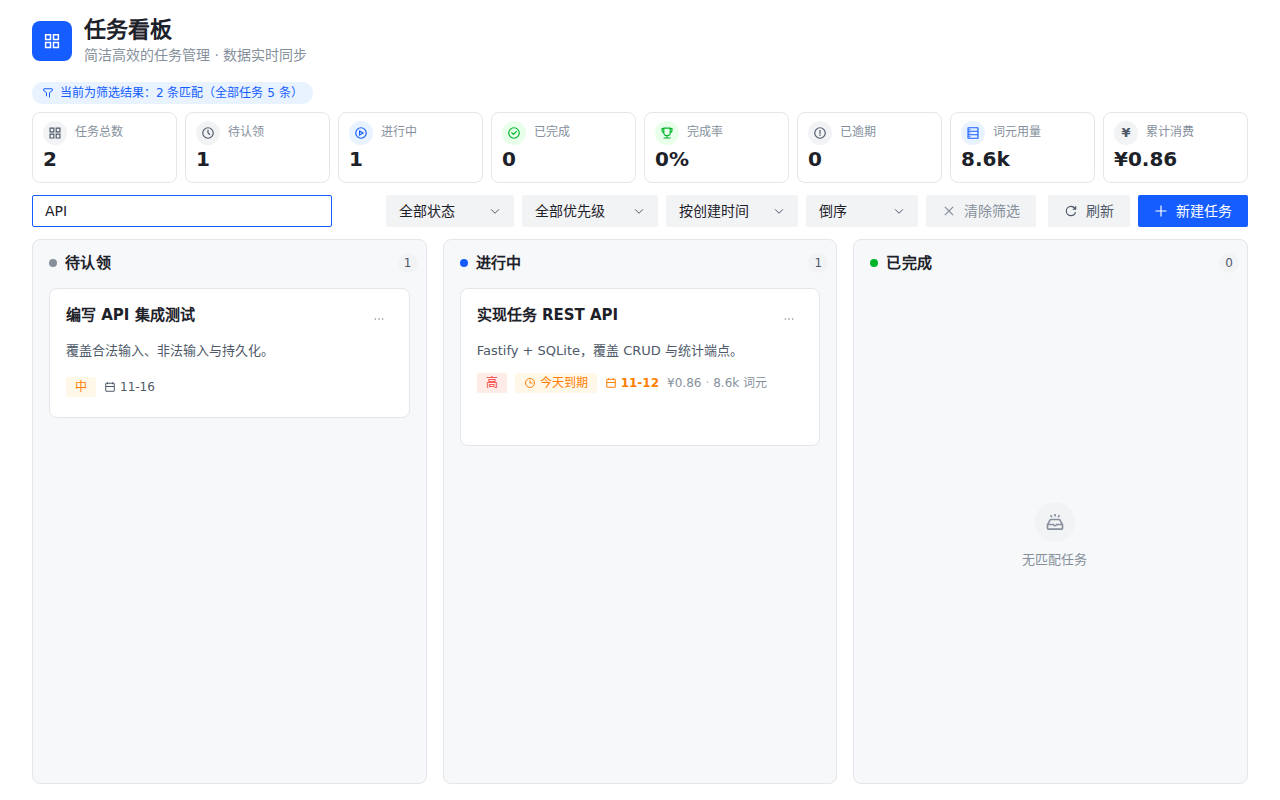
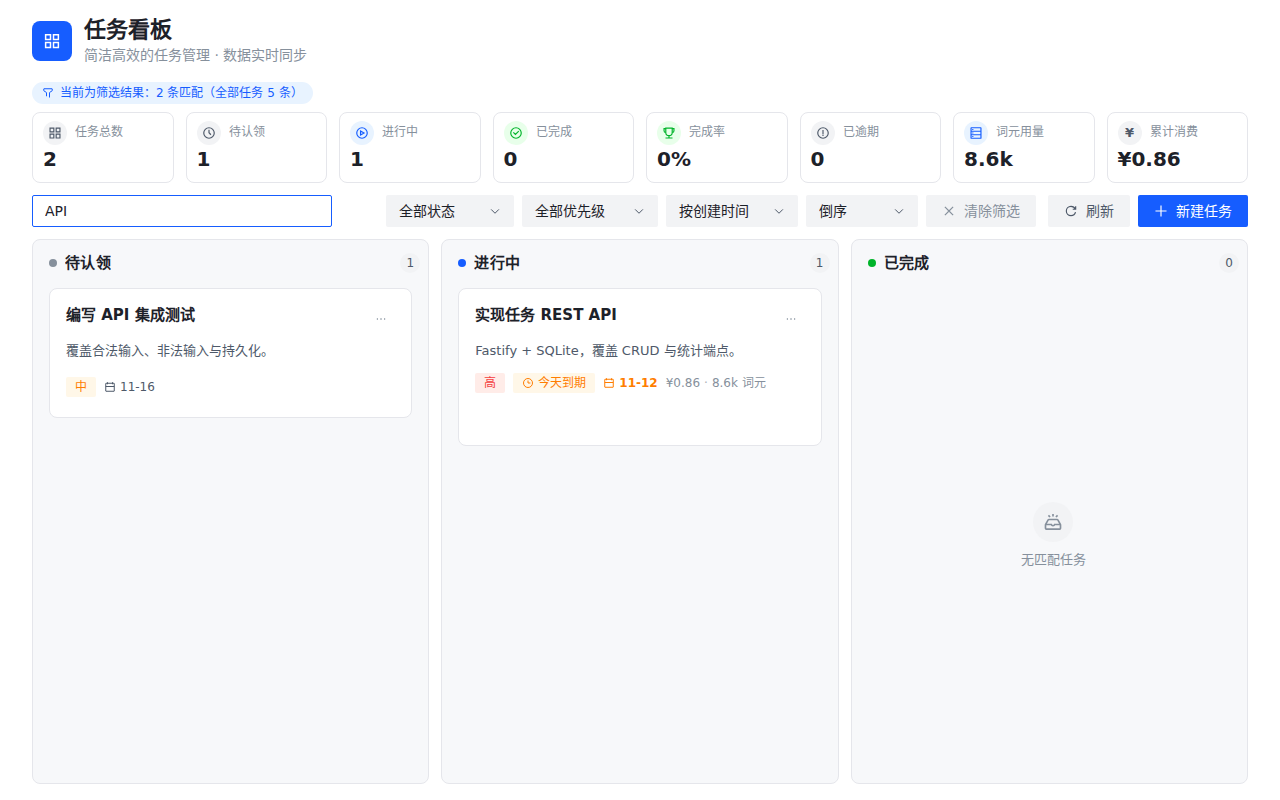
style(web): 看板列间距统一为 12px，消除宽屏列间空隙过大的问题
评审标注：宽屏下列与列之间的空隙明显大于其它间距。原因：.board-grid 在
≥1440px 时把列间距放大到 24px，而指标卡/工具栏/卡片间距均为 12px。

- 看板列间距统一为 12px（space-3），移除 ≥1440px 的 24px 特例
- 指标卡网格间距由 8px 统一为 12px（窄屏横向滚动仍 8px），与列间距、
  工具栏间距、卡片间距形成同一节奏
- 跨列卡片横向间距 = 12+16+16+2 边框 = 46px，1280/1440/1920 一致；
  卡片左右内缩 16/16px 不变，三列等宽，普通/溢出无横向跳动
- 1024×768 下 3 张待认领卡片也完整可见
- 更新 docs/assets 证据（新增 1440×900 前后对比）；typecheck/test/build 全绿

diff --git a/apps/web/src/components/Board.vue b/apps/web/src/components/Board.vue
@@ -213,19 +213,15 @@ function onDragEnd(event: DragEvent): void {
   display: grid;
   grid-template-columns: repeat(3, minmax(0, 1fr));
   grid-template-rows: minmax(0, 1fr);
-  gap: var(--app-space-4);
+  /* 列间距统一 12px（space-3）：与指标卡、工具栏、卡片间距同一节奏；
+     不再在 ≥1440px 放大到 24px，避免列间空隙明显大于其它间距。 */
+  gap: var(--app-space-3);
   align-items: stretch;
 }
 
 /* 骨架占位列不参与拉伸，保持紧凑高度 */
 .skeleton-column {
   align-self: start;
-}
-
-@media (min-width: 1440px) {
-  .board-grid {
-    gap: var(--app-space-5);
-  }
 }
 
 .skeleton-column {

diff --git a/apps/web/src/components/StatsBar.vue b/apps/web/src/components/StatsBar.vue
@@ -221,7 +221,8 @@ function trendOf(key: string): CardTrend | null | undefined {
 .stats-grid {
   display: grid;
   grid-template-columns: repeat(4, minmax(0, 1fr));
-  gap: var(--app-space-2);
+  /* 与看板列间距、工具栏间距统一为 12px 节奏 */
+  gap: var(--app-space-3);
 }
 
 .stat-card {
@@ -387,10 +388,6 @@ function trendOf(key: string): CardTrend | null | undefined {
 }
 
 @media (min-width: 1500px) {
-  .stats-grid {
-    gap: var(--app-space-3);
-  }
-
   .stat-card {
     padding: 10px 12px;
   }
